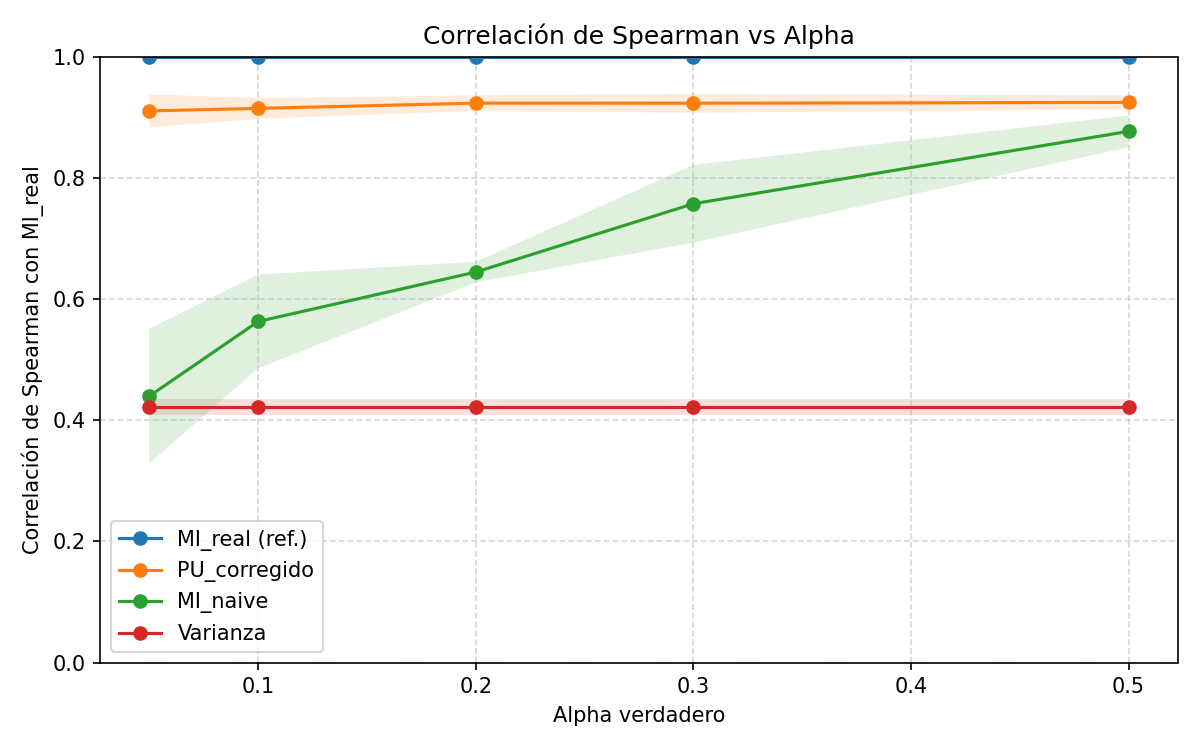
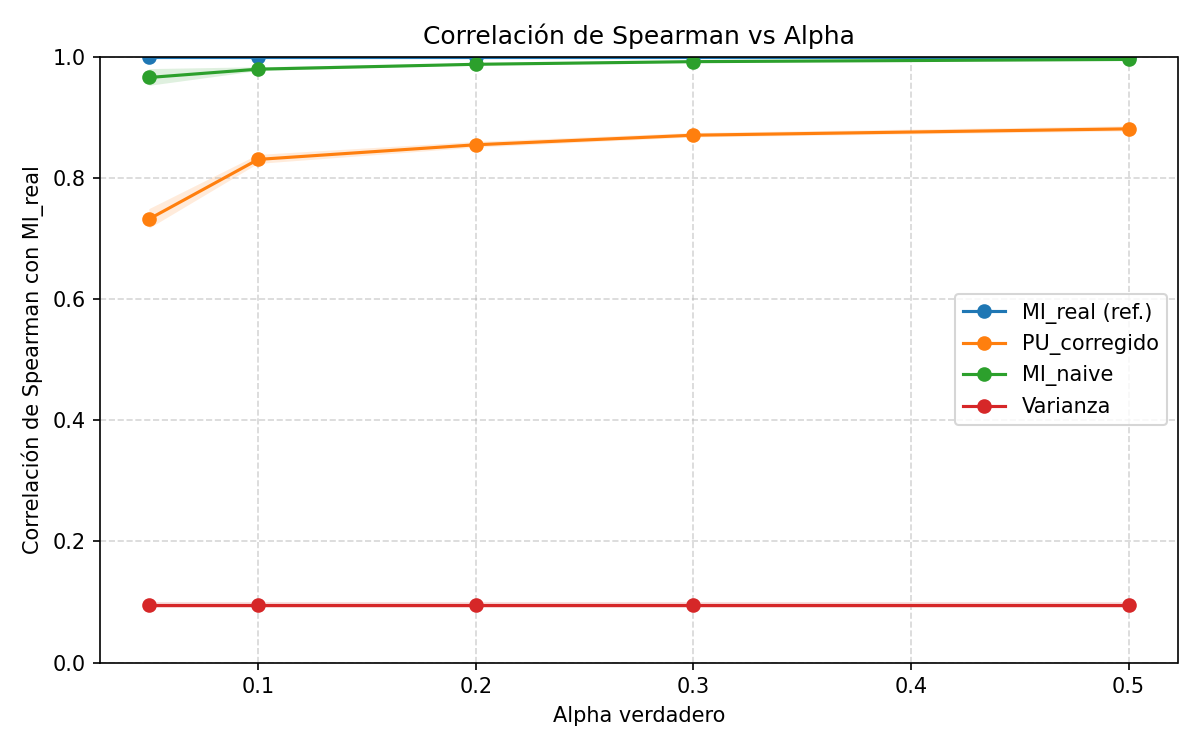
pipeline miniboone sin ruido

Changed region(s): [[0.0925, 0.0613, 0.9867, 0.6133], [0.0925, 0.7053, 0.9558, 0.8587], [0.1233, 0.2147, 0.2158, 0.3067]]

diff --git a/main.py b/main.py
@@ -31,12 +31,12 @@ def _ranking_instability(rankings_list):
 
 def main():
     """Ejecuta experimento según el modo configurado (single o sweep)."""
-    # Spambase Dataset (UCI via OpenML)
-    # 4601 muestras, 57 features, binario: spam (1) / no spam (0)
-    # Escenario PU natural: no todo el spam está etiquetado
-    _dataset = fetch_openml(name="spambase", version=1, as_frame=False)
+    # MiniBooNE Particle Identification Dataset (UCI via OpenML)
+    # 130 064 muestras, 50 features, binario: señal neutrino (1) / fondo (0)
+    # Escenario PU natural: detectores no etiquetan todos los eventos de señal
+    _dataset = fetch_openml(name="MiniBooNE", version=1, as_frame=False)
     X = _dataset.data
-    y = _dataset.target.astype(int)
+    y = (_dataset.target == 'True').astype(int)
     feature_names = np.array(_dataset.feature_names)
 
     # En modo single se itera una sola vez; en sweep se recorre la rejilla completa
@@ -58,8 +58,8 @@ def main():
         n_negatives = int((y == 0).sum())
         class_balance = round(n_positives / n_samples, 4) # proporción de positivos (que tan minoritaria es la clase positiva)
 
-        mlflow.log_param("dataset",       "spambase")
-        mlflow.log_param("positive_class", "spam (1)")
+        mlflow.log_param("dataset",       "miniboone")
+        mlflow.log_param("positive_class", "neutrino signal (1)")
         mlflow.log_param("n_samples",      n_samples)
         mlflow.log_param("n_features",         n_features)
         mlflow.log_param("n_positives",        n_positives)

diff --git a/src/config.py b/src/config.py
@@ -13,5 +13,6 @@ NOISE_LEVEL = 0
 
 # Parámetros generales
 TOP_K = 10
-EXPERIMENT_NAME = "spambase"
+EXPERIMENT_NAME = "miniboone"
 RUN_NAME = "v1.0.0"
+ 
